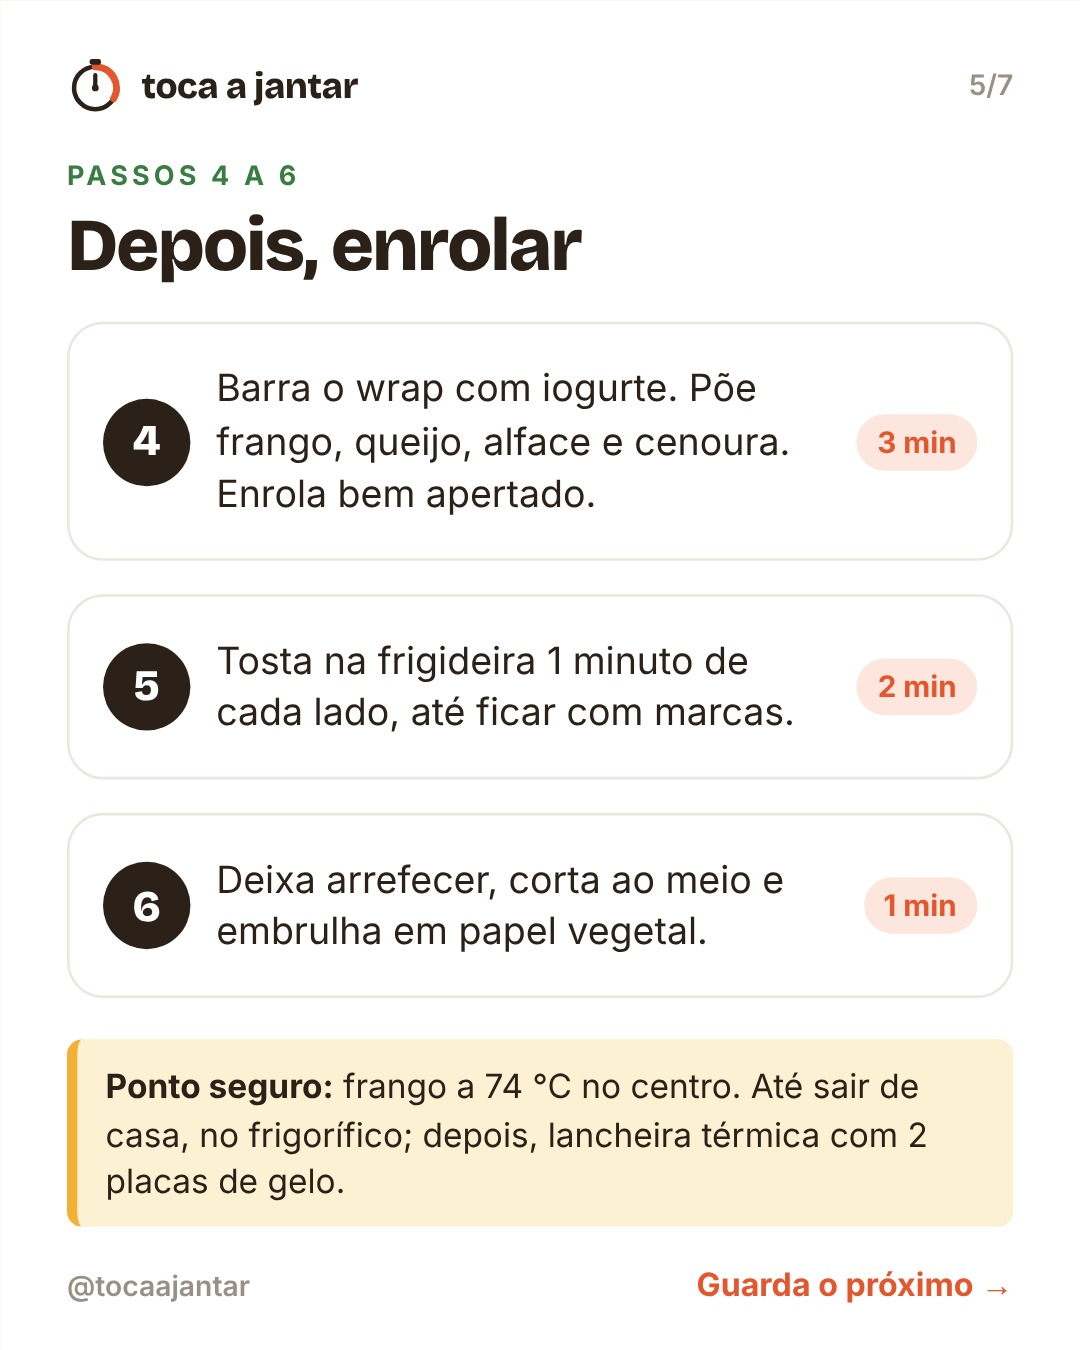
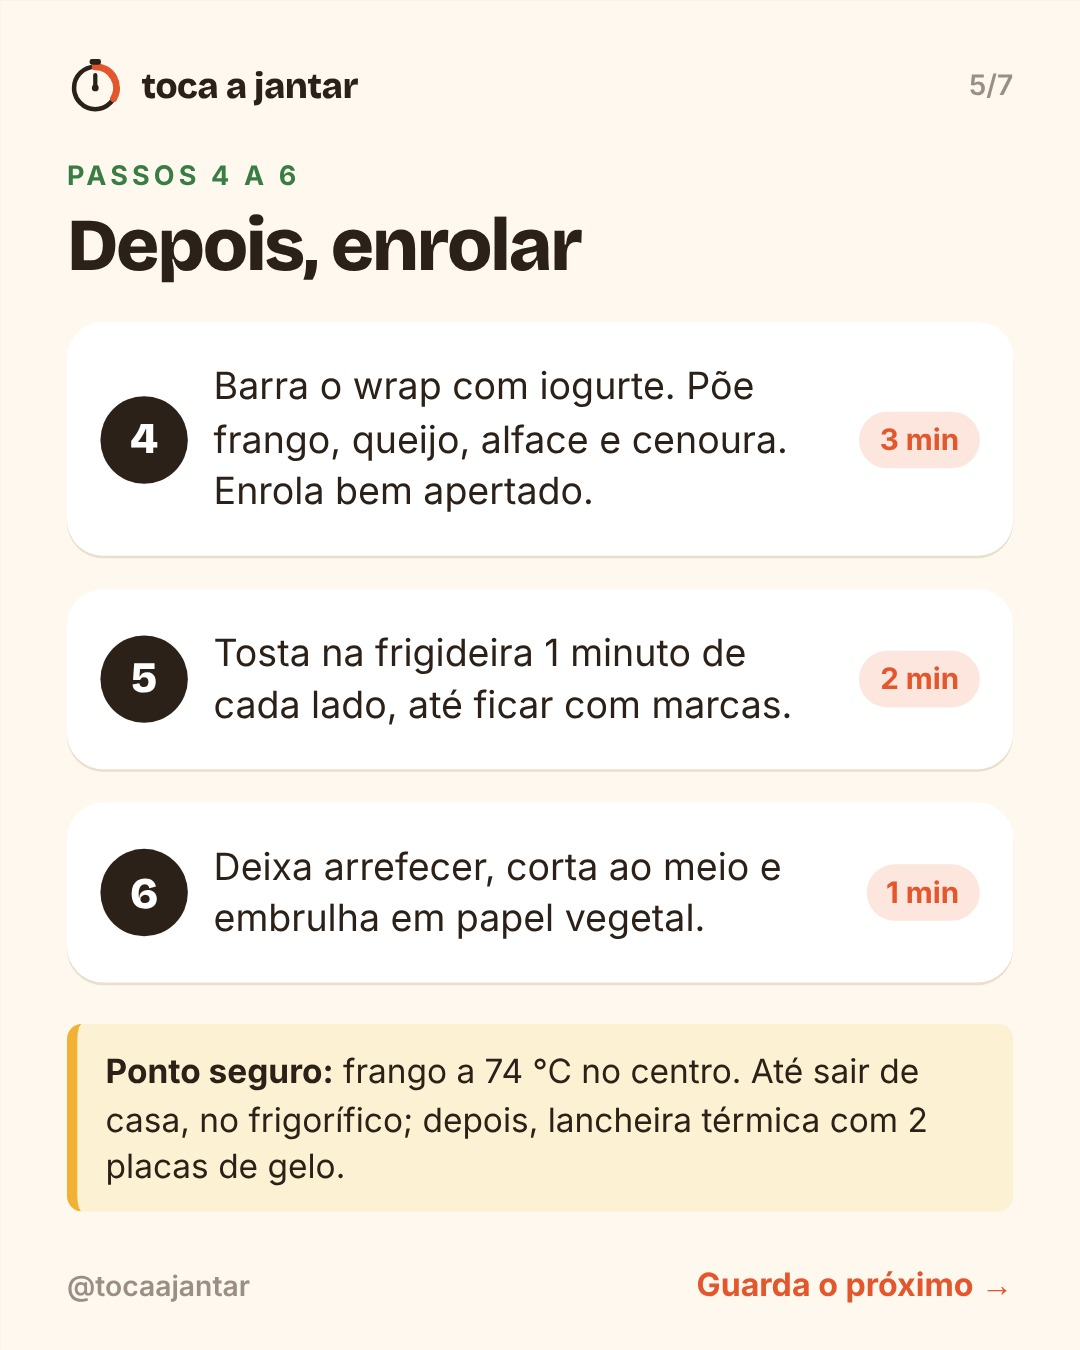
Volta ao fundo creme (modelo, story); wraps de hoje refeitos em creme
Claude-Session: https://claude.ai/code/session_014s2jag7AAEJcbs8pU4aB9z

diff --git a/daily/2026-11-23-miudos-wraps-frango/carousel.html b/daily/2026-11-23-miudos-wraps-frango/carousel.html
@@ -2,7 +2,7 @@
 <style>
 @font-face{font-family:'Bricolage';src:url('../../assets/fonts/Bricolage.woff2') format('woff2');font-weight:200 800}
 @font-face{font-family:'Inter';src:url('../../assets/fonts/Inter.woff2') format('woff2');font-weight:100 900}
-:root{--bg:#FFFFFF;--ink:#2B2118;--red:#E4572E;--green:#3A7D44;--mustard:#F2B134;--muted:#9A8F84;--card:#FFFFFF}
+:root{--bg:#FFF8EE;--ink:#2B2118;--red:#E4572E;--green:#3A7D44;--mustard:#F2B134;--muted:#9A8F84;--card:#FFFFFF}
 *{box-sizing:border-box;margin:0;padding:0}
 body{background:#E9E2D6;font-family:'Inter',sans-serif;color:var(--ink)}
 .grid{display:flex;flex-wrap:wrap;gap:16px;padding:16px;width:1760px}
@@ -35,13 +35,13 @@ h2.big{font-size:40px;letter-spacing:-1.3px;margin-top:22px}
 .ing li i{flex:1;border-bottom:1.5px dotted #CDBFA9;transform:translateY(-3px)}
 .ing li b{font-weight:700;white-space:nowrap}
 .steps{display:flex;flex-direction:column;gap:13px}
-.step{display:grid;grid-template-columns:34px 1fr auto;gap:10px;align-items:center;background:var(--card);border-radius:14px;padding:15px 13px;box-shadow:none;border:1px solid #ECE6DE}
+.step{display:grid;grid-template-columns:34px 1fr auto;gap:10px;align-items:center;background:var(--card);border-radius:14px;padding:15px 13px;box-shadow:0 1px 0 #EADFCD}
 .num{width:34px;height:34px;border-radius:50%;background:var(--ink);color:#fff;font-family:'Bricolage';font-weight:800;font-size:17px;display:grid;place-items:center}
 .step p{font-size:14.6px;line-height:1.38}
 .min{font-size:11.5px;font-weight:700;color:var(--red);background:#FCE6DE;border-radius:99px;padding:4px 8px;white-space:nowrap}
 .safe{margin-top:16px;font-size:13px;line-height:1.4;background:#FDF1D3;border-left:4px solid var(--mustard);padding:9px 11px;border-radius:6px}
 .swap{list-style:none;display:flex;flex-direction:column;gap:8px}
-.swap li{background:var(--card);border-radius:12px;padding:10px 13px;display:flex;flex-direction:column;gap:2px;box-shadow:none;border:1px solid #ECE6DE}
+.swap li{background:var(--card);border-radius:12px;padding:10px 13px;display:flex;flex-direction:column;gap:2px;box-shadow:0 1px 0 #EADFCD}
 .swap b{font-size:13px;color:var(--red)}
 .swap span{font-size:13.5px}
 .vote{display:flex;gap:10px;margin-top:6px}
@@ -54,12 +54,12 @@ h2.big{font-size:40px;letter-spacing:-1.3px;margin-top:22px}
 .s2 h2.big{font-size:41px;margin-top:14px}
 .s2 .lead{font-size:18px}
 .s2 .ticks{margin-top:16px} .s2 .ticks li{font-size:17px;padding:8px 0}
-.promise{margin-top:auto;margin-bottom:12px;display:flex;align-items:center;gap:12px;background:#FFFFFF;border:1px solid #ECE6DE;border-radius:14px;padding:12px 14px}
+.promise{margin-top:auto;margin-bottom:12px;display:flex;align-items:center;gap:12px;background:#FDF1D3;border-radius:14px;padding:12px 14px}
 .promise .logo{width:38px;height:38px;flex:none}
 .promise b{display:block;font-family:'Bricolage';font-size:22px;letter-spacing:-.4px}
 .promise span{font-size:13.5px}
 #s4 .step{padding:14px 13px} #s4 .step p{font-size:14.8px}
-.tip{margin-top:auto;margin-bottom:12px;font-size:13.5px;line-height:1.4;background:#FFFFFF;border:1px solid #ECE6DE;border-left:4px solid var(--green);padding:10px 12px;border-radius:6px}
+.tip{margin-top:auto;margin-bottom:12px;font-size:13.5px;line-height:1.4;background:#E6F0E4;border-left:4px solid var(--green);padding:10px 12px;border-radius:6px}
 .down{width:20px;height:20px;vertical-align:-3px}
 #s7 h2.big{font-size:44px;margin-top:26px}
 #s7 .btn{padding:22px 14px;font-size:16.5px}
@@ -171,7 +171,7 @@ h2.big{font-size:40px;letter-spacing:-1.3px;margin-top:22px}
   <h2 class="big">Qual é a próxima versão?</h2>
   <div class="vote"><div class="btn a"><b>A</b>Com fiambre</div><div class="btn b"><b>B</b>Com atum</div></div>
   <p class="cta">Comenta <b>A</b> ou <b>B</b> <svg viewBox="0 0 24 24" class="down"><path d="M12 4v14M6 12l6 6 6-6" fill="none" stroke="#E4572E" stroke-width="2.8" stroke-linecap="round" stroke-linejoin="round"/></svg></p>
-  <p class="follow">Segue <b>@tocaajantar</b>: jantar ao meio-dia, marmita às 18:30.</p>
+  <p class="follow">Segue <b>@tocaajantar</b>: um jantar e uma marmita por dia.</p>
   <p class="saveline">Guarda para a próxima manhã de pressa.</p>
   <p class="legal">Tempos aproximados · Confirma alergénios (contém glúten e leite)</p>
 </div>

diff --git a/daily/2026-11-23-miudos-wraps-frango/story.html b/daily/2026-11-23-miudos-wraps-frango/story.html
@@ -2,7 +2,7 @@
 @font-face{font-family:'Bricolage';src:url('file:///home/user/Instagram-/assets/fonts/Bricolage.woff2') format('woff2');font-weight:200 800}
 @font-face{font-family:'Inter';src:url('file:///home/user/Instagram-/assets/fonts/Inter.woff2') format('woff2');font-weight:100 900}
 *{margin:0;padding:0;box-sizing:border-box}
-body{width:1080px;height:1920px;background:#FFFFFF;font-family:'Inter';color:#2B2118;position:relative;overflow:hidden}
+body{width:1080px;height:1920px;background:#FFF8EE;font-family:'Inter';color:#2B2118;position:relative;overflow:hidden}
 .card{position:absolute;left:160px;top:270px;width:760px;height:950px;border-radius:36px;overflow:hidden;box-shadow:0 24px 60px rgba(43,33,24,.22);transform:rotate(-2deg)}
 .card img{width:100%;height:100%;display:block}
 .band{position:absolute;left:0;right:0;top:1290px;background:#E4572E;color:#fff;font-family:'Bricolage';font-weight:800;font-size:50px;letter-spacing:-.5px;text-align:center;padding:30px 0;display:flex;justify-content:center;align-items:center;gap:20px}

diff --git a/tools/story.js b/tools/story.js
@@ -20,7 +20,7 @@ const fs = require('fs');
 @font-face{font-family:'Bricolage';src:url('${fonts}/Bricolage.woff2') format('woff2');font-weight:200 800}
 @font-face{font-family:'Inter';src:url('${fonts}/Inter.woff2') format('woff2');font-weight:100 900}
 *{margin:0;padding:0;box-sizing:border-box}
-body{width:1080px;height:1920px;background:#FFFFFF;font-family:'Inter';color:#2B2118;position:relative;overflow:hidden}
+body{width:1080px;height:1920px;background:#FFF8EE;font-family:'Inter';color:#2B2118;position:relative;overflow:hidden}
 .card{position:absolute;left:160px;top:270px;width:760px;height:950px;border-radius:36px;overflow:hidden;box-shadow:0 24px 60px rgba(43,33,24,.22);transform:rotate(-2deg)}
 .card img{width:100%;height:100%;display:block}
 .band{position:absolute;left:0;right:0;top:1290px;background:#E4572E;color:#fff;font-family:'Bricolage';font-weight:800;font-size:50px;letter-spacing:-.5px;text-align:center;padding:30px 0;display:flex;justify-content:center;align-items:center;gap:20px}

diff --git a/daily/2026-11-23-miudos-wraps-frango/build.py b/daily/2026-11-23-miudos-wraps-frango/build.py
@@ -103,7 +103,7 @@ slides.append(frame(7, f"""
   <h2 class="big">Qual é a próxima versão?</h2>
   <div class="vote"><div class="btn a"><b>A</b>Com fiambre</div><div class="btn b"><b>B</b>Com atum</div></div>
   <p class="cta">Comenta <b>A</b> ou <b>B</b> {DOWN}</p>
-  <p class="follow">Segue <b>{HANDLE}</b>: jantar ao meio-dia, marmita às 18:30.</p>
+  <p class="follow">Segue <b>{HANDLE}</b>: um jantar e uma marmita por dia.</p>
   <p class="saveline">Guarda para a próxima manhã de pressa.</p>
   <p class="legal">Tempos aproximados · Confirma alergénios (contém glúten e leite)</p>
 """, None, "s7"))
@@ -111,7 +111,7 @@ slides.append(frame(7, f"""
 CSS = f"""
 @font-face{{font-family:'Bricolage';src:url('{FONTS}/Bricolage.woff2') format('woff2');font-weight:200 800}}
 @font-face{{font-family:'Inter';src:url('{FONTS}/Inter.woff2') format('woff2');font-weight:100 900}}
-:root{{--bg:#FFFFFF;--ink:#2B2118;--red:#E4572E;--green:#3A7D44;--mustard:#F2B134;--muted:#9A8F84;--card:#FFFFFF}}
+:root{{--bg:#FFF8EE;--ink:#2B2118;--red:#E4572E;--green:#3A7D44;--mustard:#F2B134;--muted:#9A8F84;--card:#FFFFFF}}
 *{{box-sizing:border-box;margin:0;padding:0}}
 body{{background:#E9E2D6;font-family:'Inter',sans-serif;color:var(--ink)}}
 .grid{{display:flex;flex-wrap:wrap;gap:16px;padding:16px;width:{420*4+16*5}px}}
@@ -144,13 +144,13 @@ h2.big{{font-size:40px;letter-spacing:-1.3px;margin-top:22px}}
 .ing li i{{flex:1;border-bottom:1.5px dotted #CDBFA9;transform:translateY(-3px)}}
 .ing li b{{font-weight:700;white-space:nowrap}}
 .steps{{display:flex;flex-direction:column;gap:13px}}
-.step{{display:grid;grid-template-columns:34px 1fr auto;gap:10px;align-items:center;background:var(--card);border-radius:14px;padding:15px 13px;box-shadow:none;border:1px solid #ECE6DE}}
+.step{{display:grid;grid-template-columns:34px 1fr auto;gap:10px;align-items:center;background:var(--card);border-radius:14px;padding:15px 13px;box-shadow:0 1px 0 #EADFCD}}
 .num{{width:34px;height:34px;border-radius:50%;background:var(--ink);color:#fff;font-family:'Bricolage';font-weight:800;font-size:17px;display:grid;place-items:center}}
 .step p{{font-size:14.6px;line-height:1.38}}
 .min{{font-size:11.5px;font-weight:700;color:var(--red);background:#FCE6DE;border-radius:99px;padding:4px 8px;white-space:nowrap}}
 .safe{{margin-top:16px;font-size:13px;line-height:1.4;background:#FDF1D3;border-left:4px solid var(--mustard);padding:9px 11px;border-radius:6px}}
 .swap{{list-style:none;display:flex;flex-direction:column;gap:8px}}
-.swap li{{background:var(--card);border-radius:12px;padding:10px 13px;display:flex;flex-direction:column;gap:2px;box-shadow:none;border:1px solid #ECE6DE}}
+.swap li{{background:var(--card);border-radius:12px;padding:10px 13px;display:flex;flex-direction:column;gap:2px;box-shadow:0 1px 0 #EADFCD}}
 .swap b{{font-size:13px;color:var(--red)}}
 .swap span{{font-size:13.5px}}
 .vote{{display:flex;gap:10px;margin-top:6px}}
@@ -163,12 +163,12 @@ h2.big{{font-size:40px;letter-spacing:-1.3px;margin-top:22px}}
 .s2 h2.big{{font-size:41px;margin-top:14px}}
 .s2 .lead{{font-size:18px}}
 .s2 .ticks{{margin-top:16px}} .s2 .ticks li{{font-size:17px;padding:8px 0}}
-.promise{{margin-top:auto;margin-bottom:12px;display:flex;align-items:center;gap:12px;background:#FFFFFF;border:1px solid #ECE6DE;border-radius:14px;padding:12px 14px}}
+.promise{{margin-top:auto;margin-bottom:12px;display:flex;align-items:center;gap:12px;background:#FDF1D3;border-radius:14px;padding:12px 14px}}
 .promise .logo{{width:38px;height:38px;flex:none}}
 .promise b{{display:block;font-family:'Bricolage';font-size:22px;letter-spacing:-.4px}}
 .promise span{{font-size:13.5px}}
 #s4 .step{{padding:14px 13px}} #s4 .step p{{font-size:14.8px}}
-.tip{{margin-top:auto;margin-bottom:12px;font-size:13.5px;line-height:1.4;background:#FFFFFF;border:1px solid #ECE6DE;border-left:4px solid var(--green);padding:10px 12px;border-radius:6px}}
+.tip{{margin-top:auto;margin-bottom:12px;font-size:13.5px;line-height:1.4;background:#E6F0E4;border-left:4px solid var(--green);padding:10px 12px;border-radius:6px}}
 .down{{width:20px;height:20px;vertical-align:-3px}}
 #s7 h2.big{{font-size:44px;margin-top:26px}}
 #s7 .btn{{padding:22px 14px;font-size:16.5px}}

diff --git a/tools/build_template.py b/tools/build_template.py
@@ -111,7 +111,7 @@ slides.append(frame(7, f"""
 CSS = f"""
 @font-face{{font-family:'Bricolage';src:url('{FONTS}/Bricolage.woff2') format('woff2');font-weight:200 800}}
 @font-face{{font-family:'Inter';src:url('{FONTS}/Inter.woff2') format('woff2');font-weight:100 900}}
-:root{{--bg:#FFFFFF;--ink:#2B2118;--red:#E4572E;--green:#3A7D44;--mustard:#F2B134;--muted:#9A8F84;--card:#FFFFFF}}
+:root{{--bg:#FFF8EE;--ink:#2B2118;--red:#E4572E;--green:#3A7D44;--mustard:#F2B134;--muted:#9A8F84;--card:#FFFFFF}}
 *{{box-sizing:border-box;margin:0;padding:0}}
 body{{background:#E9E2D6;font-family:'Inter',sans-serif;color:var(--ink)}}
 .grid{{display:flex;flex-wrap:wrap;gap:16px;padding:16px;width:{420*4+16*5}px}}
@@ -144,13 +144,13 @@ h2.big{{font-size:40px;letter-spacing:-1.3px;margin-top:22px}}
 .ing li i{{flex:1;border-bottom:1.5px dotted #CDBFA9;transform:translateY(-3px)}}
 .ing li b{{font-weight:700;white-space:nowrap}}
 .steps{{display:flex;flex-direction:column;gap:13px}}
-.step{{display:grid;grid-template-columns:34px 1fr auto;gap:10px;align-items:center;background:var(--card);border-radius:14px;padding:15px 13px;box-shadow:none;border:1px solid #ECE6DE}}
+.step{{display:grid;grid-template-columns:34px 1fr auto;gap:10px;align-items:center;background:var(--card);border-radius:14px;padding:15px 13px;box-shadow:0 1px 0 #EADFCD}}
 .num{{width:34px;height:34px;border-radius:50%;background:var(--ink);color:#fff;font-family:'Bricolage';font-weight:800;font-size:17px;display:grid;place-items:center}}
 .step p{{font-size:14.6px;line-height:1.38}}
 .min{{font-size:11.5px;font-weight:700;color:var(--red);background:#FCE6DE;border-radius:99px;padding:4px 8px;white-space:nowrap}}
 .safe{{margin-top:16px;font-size:13px;line-height:1.4;background:#FDF1D3;border-left:4px solid var(--mustard);padding:9px 11px;border-radius:6px}}
 .swap{{list-style:none;display:flex;flex-direction:column;gap:8px}}
-.swap li{{background:var(--card);border-radius:12px;padding:10px 13px;display:flex;flex-direction:column;gap:2px;box-shadow:none;border:1px solid #ECE6DE}}
+.swap li{{background:var(--card);border-radius:12px;padding:10px 13px;display:flex;flex-direction:column;gap:2px;box-shadow:0 1px 0 #EADFCD}}
 .swap b{{font-size:13px;color:var(--red)}}
 .swap span{{font-size:13.5px}}
 .vote{{display:flex;gap:10px;margin-top:6px}}
@@ -163,12 +163,12 @@ h2.big{{font-size:40px;letter-spacing:-1.3px;margin-top:22px}}
 .s2 h2.big{{font-size:41px;margin-top:14px}}
 .s2 .lead{{font-size:18px}}
 .s2 .ticks{{margin-top:16px}} .s2 .ticks li{{font-size:17px;padding:10px 0}}
-.promise{{margin-top:auto;margin-bottom:12px;display:flex;align-items:center;gap:12px;background:#FFFFFF;border:1px solid #ECE6DE;border-radius:14px;padding:12px 14px}}
+.promise{{margin-top:auto;margin-bottom:12px;display:flex;align-items:center;gap:12px;background:#FDF1D3;border-radius:14px;padding:12px 14px}}
 .promise .logo{{width:38px;height:38px;flex:none}}
 .promise b{{display:block;font-family:'Bricolage';font-size:22px;letter-spacing:-.4px}}
 .promise span{{font-size:13.5px}}
 #s4 .step{{padding:14px 13px}} #s4 .step p{{font-size:14.8px}}
-.tip{{margin-top:auto;margin-bottom:12px;font-size:13.5px;line-height:1.4;background:#FFFFFF;border:1px solid #ECE6DE;border-left:4px solid var(--green);padding:10px 12px;border-radius:6px}}
+.tip{{margin-top:auto;margin-bottom:12px;font-size:13.5px;line-height:1.4;background:#E6F0E4;border-left:4px solid var(--green);padding:10px 12px;border-radius:6px}}
 .down{{width:20px;height:20px;vertical-align:-3px}}
 #s7 h2.big{{font-size:44px;margin-top:26px}}
 #s7 .btn{{padding:22px 14px;font-size:16.5px}}

diff --git a/BRAND.md b/BRAND.md
@@ -32,7 +32,7 @@
 | Tom | Próximo, direto, com humor leve; passos curtos com o tempo de cada passo; sem pretensão |
 | Palavras proibidas | gourmet, superalimento, detox, "sem culpa", "queima gordura", "emagrece", "cura", e qualquer alegação de saúde ou nutrição não autorizada (Reg. (CE) 1924/2006) |
 | Aviso | "Tempos aproximados · Confirma alergénios (contém X)" |
-| Cores | fundo **`#FFFFFF` (branco)**, desde 21/11/2026 · texto `#2B2118` · tomate `#E4572E` · manjericão `#3A7D44` · mostarda `#F2B134` · neutro `#9A8F84` · cartões e caixas **brancos com contorno `#ECE6DE`**; só a caixa "Ponto seguro" leva cor (`#FDF1D3`, mostarda claro) |
+| Cores | fundo **`#FFF8EE` (creme)**: de volta desde 23/11/2026, porque resulta melhor no telemóvel (o fundo branco usou-se a 22–23/11) · texto `#2B2118` · tomate `#E4572E` · manjericão `#3A7D44` · mostarda `#F2B134` · neutro `#9A8F84` · cartões `#FFFFFF` com sombra leve; "Ponto seguro" mostarda claro `#FDF1D3`, "Truque" verde claro `#E6F0E4` |
 | Letras | títulos **Bricolage Grotesque 700–800** · texto **Inter** (ambas OFL, do Google Fonts) |
 | Logótipo | Cronómetro com o arco dos primeiros 20 minutos a tomate + o nome da página em minúsculas (wordmark) |
 | Tagline | RÁPIDO · PRÁTICO · DO DIA A DIA |
@@ -109,7 +109,7 @@ Se falhar qualquer uma destas, não a uses e diz-me porquê.
 
 ---
 
-## 6. O carrossel (7 slides, 1080×1350, fundo branco)
+## 6. O carrossel (7 slides, 1080×1350, fundo creme)
 
 Modelo atual: `tools/build_template.py`. Copia-o para `daily/<post>/build.py`.
 
